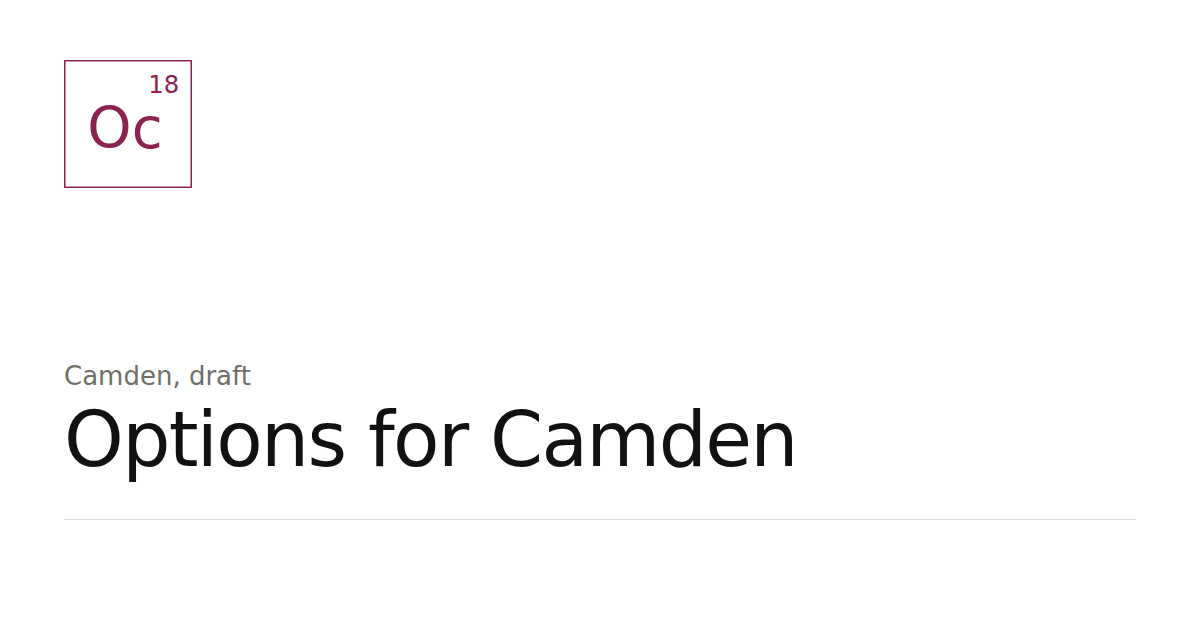
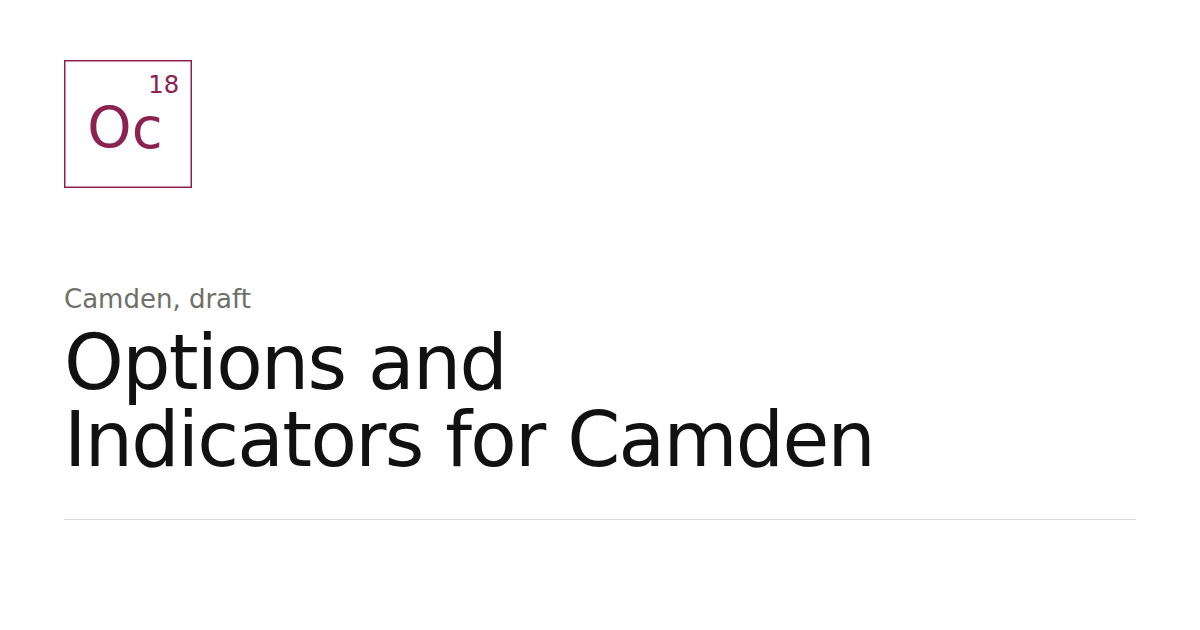
Rename to Options and Indicators for Camden, add the three indicators
Adds an explicit indicators section: three simple, mission-level
measures (closing the nutrition gap, growing resilient local
infrastructure, shock-absorbency) each tied to data already being
captured (Healthy Weight Acceleration Plan, Hubs & Markets Working
Group and Supply Map, Nutrition Cascade Model) rather than new
measurement. Cross-links both ways: each option that moves an
indicator says so, and each indicator names the options most likely
to move it. Cornerstone Indicators is kept as the method behind
getting indicators like these right, not the answer itself.

Claude-Session: https://claude.ai/code/session_01Qav7maXNPuh2bSZKtfst4Z

Changed region(s): [[0.0308, 0.4524, 0.74, 0.754]]

diff --git a/options-for-camden.html b/options-for-camden.html
@@ -3,7 +3,7 @@
 <head>
 <meta charset="UTF-8">
 <meta name="viewport" content="width=device-width, initial-scale=1.0">
-<title>Options for Camden (draft) — Food as Infrastructure</title>
+<title>Options and Indicators for Camden (draft) — Food as Infrastructure</title>
 <style>
   :root{
     --paper:var(--fai-paper);
@@ -100,7 +100,17 @@
   .opt .energy b{color:var(--ink); font-weight:600;}
   .opt .ask{margin-top:8px; font-size:14px; color:var(--ink-faint); line-height:1.5; max-width:68ch;}
   .opt .ask b{color:var(--ink); font-weight:600;}
+  .opt .moves{margin-top:8px; font-size:14px; color:var(--ink-faint); line-height:1.5; max-width:68ch;}
+  .opt .moves b{color:var(--ink); font-weight:600;}
   .opt .more{display:inline-block; margin-top:10px; font-size:14px;}
+
+  .indicator .num{color:var(--accent);}
+  .indicator .opt-head h3{font-size:clamp(20px,2.3vw,24px);}
+  .indicator .tracked{margin-top:14px; padding-top:12px; border-top:1px solid var(--rule-strong); font-size:14px; color:var(--ink-faint); line-height:1.5; max-width:68ch;}
+  .indicator .tracked b{color:var(--ink); font-weight:600;}
+  .indicator .success{margin-top:8px; font-size:14px; color:var(--ink-faint); line-height:1.5; max-width:68ch;}
+  .indicator .success b{color:var(--ink); font-weight:600;}
+  .indicator .lede{margin:10px 0 0; font-size:16px; color:var(--ink-soft); line-height:1.55; max-width:68ch;}
 
   .cta-box{background:var(--paper-2); padding:32px; margin-top:24px;}
   .cta-box h3{font-size:clamp(22px,2.4vw,28px); line-height:1.2; font-weight:500; margin-top:8px; max-width:42ch;}
@@ -148,24 +158,24 @@
   }
 </style>
 <!-- fai:head -->
-<meta name="description" content="A short options paper: nine interventions from the Future Food Dinner and Workshop where a named person or organisation is already showing real energy, distilled from Where’s the Energy?">
+<meta name="description" content="Nine interventions where someone already showed up, distilled from Where’s the Energy?, plus the three simple indicators Camden and DML will use to know the mission is actually working.">
 <link rel="canonical" href="https://food.darkmatterlabs.org/options-for-camden.html">
 <meta name="theme-color" content="#111112">
 <meta property="og:type" content="article">
 <meta property="og:site_name" content="Food as Infrastructure, Dark Matter Labs">
 <meta property="og:locale" content="en_GB">
 <meta property="og:url" content="https://food.darkmatterlabs.org/options-for-camden.html">
-<meta property="og:title" content="Options for Camden">
-<meta property="og:description" content="A short options paper: nine interventions from the Future Food Dinner and Workshop where a named person or organisation is already showing real energy, distilled from Where’s the Energy?">
+<meta property="og:title" content="Options and Indicators for Camden">
+<meta property="og:description" content="Nine interventions where someone already showed up, distilled from Where’s the Energy?, plus the three simple indicators Camden and DML will use to know the mission is actually working.">
 <meta property="og:image" content="https://food.darkmatterlabs.org/assets/fai/social/options-for-camden.png">
 <meta property="og:image:width" content="1200">
 <meta property="og:image:height" content="630">
-<meta property="og:image:alt" content="Options for Camden. Food as Infrastructure, Dark Matter Labs.">
+<meta property="og:image:alt" content="Options and Indicators for Camden. Food as Infrastructure, Dark Matter Labs.">
 <meta name="twitter:card" content="summary_large_image">
-<meta name="twitter:title" content="Options for Camden">
-<meta name="twitter:description" content="A short options paper: nine interventions from the Future Food Dinner and Workshop where a named person or organisation is already showing real energy, distilled from Where’s the Energy?">
+<meta name="twitter:title" content="Options and Indicators for Camden">
+<meta name="twitter:description" content="Nine interventions where someone already showed up, distilled from Where’s the Energy?, plus the three simple indicators Camden and DML will use to know the mission is actually working.">
 <meta name="twitter:image" content="https://food.darkmatterlabs.org/assets/fai/social/options-for-camden.png">
-<meta name="twitter:image:alt" content="Options for Camden. Food as Infrastructure, Dark Matter Labs.">
+<meta name="twitter:image:alt" content="Options and Indicators for Camden. Food as Infrastructure, Dark Matter Labs.">
 <link rel="icon" href="assets/fai/favicon.svg" type="image/svg+xml">
 <link rel="preconnect" href="https://fonts.googleapis.com">
 <link rel="preconnect" href="https://fonts.gstatic.com" crossorigin>
@@ -180,7 +190,7 @@
     <a class="fai-bar__dm" href="https://darkmatterlabs.org/"><img class="fai-bar__lockup" src="assets/brand/dm-logo-v1-white.svg" alt="Dark Matter Labs" width="102" height="20"><img class="fai-bar__stamp" src="assets/brand/dm-stamp-white.svg" alt="Dark Matter Labs" width="20" height="20"></a>
     <span class="fai-bar__sep" aria-hidden="true"></span>
     <a class="fai-bar__mission" href="index.html">Food as Infrastructure</a>
-    <span class="fai-bar__here"><span class="fai-el fai-el--camden fai-el--draft" aria-hidden="true"><b>Oc</b><i>18</i></span><span>Options for Camden</span></span>
+    <span class="fai-bar__here"><span class="fai-el fai-el--camden fai-el--draft" aria-hidden="true"><b>Oc</b><i>18</i></span><span>Options and Indicators for Camden</span></span>
     <a class="fai-bar__xco" href="https://optionality.darkmatterlabs.org/" target="_blank" rel="noopener" title="Dark Matter Labs' Expanding Civilizational Optionality portfolio">xCO portfolio<span aria-hidden="true"> ↗</span></a>
     <div class="fai-bar__links" role="navigation" aria-label="Site"><a href="index.html">Portfolio</a><a href="library.html">Library</a></div>
   </div>
@@ -189,10 +199,11 @@
 
 <nav>
   <div class="navrow">
-    <div class="navbrand">Options for Camden</div>
+    <div class="navbrand">Options and Indicators for Camden</div>
     <div class="navlinks">
       <a href="#why">Why these, not forty</a>
       <a href="#options">The options</a>
+      <a href="#indicators">The indicators</a>
       <a href="#firstmove">First move</a>
       <a href="#tensions">Decide on purpose</a>
       <a href="#next">What's next</a>
@@ -203,7 +214,7 @@
 <div class="status-strip">
   <div class="wrap">
     <div class="status-note">
-      <p><strong>Draft, evolving.</strong> This is the short options paper Camden asked for: a small number of high-leverage interventions Camden could explore in partnership with key stakeholders, selected from the full catalogue on <a href="wheres-the-energy.html">Where's the Energy?</a> As energy moves, or new interventions surface, this list changes with it — it is not a final decision, and nothing here is funded or agreed by being listed.</p>
+      <p><strong>Draft, evolving.</strong> This is the short options paper Camden asked for: a small number of high-leverage interventions Camden could explore in partnership with key stakeholders, selected from the full catalogue on <a href="wheres-the-energy.html">Where's the Energy?</a> It now also carries the three simple indicators Camden asked for separately, tracked through data already being captured, for knowing whether any of it is working. As energy moves, or new interventions surface, this list changes with it — it is not a final decision, and nothing here is funded or agreed by being listed.</p>
       <span class="status-date">Working draft, October 2026</span>
     </div>
   </div>
@@ -213,9 +224,10 @@
   <div class="wrap">
     <div class="eyebrow">A short list, not the whole portfolio</div>
     <h1>Nine places where someone already showed up.</h1>
-    <p class="sub">Camden's Food Partnership raised more than forty ideas across the Future Food Dinner and Workshop. Most are real and worth holding. Only a handful already have a named person or organisation ready to move. This page is those — picked for momentum, not importance, so Camden can start a real conversation with a real partner rather than another round of ideas.</p>
+    <p class="sub">Camden's Food Partnership raised more than forty ideas across the Future Food Dinner and Workshop. Most are real and worth holding. Only a handful already have a named person or organisation ready to move. This page is those — picked for momentum, not importance, so Camden can start a real conversation with a real partner rather than another round of ideas. It ends with the three indicators that tell Camden and DML whether any of it is actually moving the mission.</p>
     <div class="ctarow">
       <a class="btn btn-primary" href="#options">See the nine options</a>
+      <a class="btn btn-primary" href="#indicators">See the three indicators</a>
       <a class="btn btn-ghost" href="wheres-the-energy.html">Open the full catalogue ↗</a>
     </div>
   </div>
@@ -246,29 +258,31 @@
     </div>
     <div class="optlist">
 
-      <div class="opt">
+      <div class="opt" id="opt-01">
         <div class="num">01</div>
         <div>
           <div class="opt-head"><h3>A Local Food Resilience Committee</h3><span class="track-tag civic">Civic muscle</span></div>
           <p class="mech">Add food formally to Camden's emergency response, alongside the police, hospital, ambulance and fire services already covered by the Borough Resilience Forum — before national policy requires it.</p>
           <div class="energy"><b>Energy already visible:</b> Tanya brought the proposal and put her name to it directly.</div>
           <div class="ask"><b>What's needed next:</b> who convenes it locally, and keeps the risk register alive after the first meeting.</div>
+          <div class="moves"><b>Moves:</b> <a href="#ind-III">indicator III, shock-absorbency</a> — this option exists for exactly this number.</div>
           <a class="more" href="wheres-the-energy.html#resilience">See the full case →</a>
         </div>
       </div>
 
-      <div class="opt">
+      <div class="opt" id="opt-02">
         <div class="num">02</div>
         <div>
           <div class="opt-head"><h3>A procurement charter</h3><span class="track-tag demand">Demand</span></div>
           <p class="mech">A joint public/private Camden charter set deliberately beyond existing certifications — Food for Life Served Here's gold standard only requires around 15% organic.</p>
           <div class="energy"><b>Energy already visible:</b> Rosemary named it directly on the day — "if anyone wants to talk about a charter, let's do it."</div>
           <div class="ask"><b>What's needed next:</b> who else wants in, and who owns the supplier relationships day to day.</div>
+          <div class="moves"><b>Moves:</b> <a href="#ind-II">indicator II, resilient local infrastructure</a> — a charter is a demand-side lever on where the money goes.</div>
           <a class="more" href="wheres-the-energy.html#f02">See the full case →</a>
         </div>
       </div>
 
-      <div class="opt">
+      <div class="opt" id="opt-03">
         <div class="num">03</div>
         <div>
           <div class="opt-head"><h3>Social value live-matchmaking</h3><span class="track-tag hub">Hub</span></div>
@@ -279,68 +293,74 @@
         </div>
       </div>
 
-      <div class="opt">
+      <div class="opt" id="opt-04">
         <div class="num">04</div>
         <div>
           <div class="opt-head"><h3>Camden food hub(s)</h3><span class="track-tag hub">Hub</span></div>
           <p class="mech">The single biggest tangible idea from the workshop — a hub-and-spoke model anchored at Regis Road, with composting and anaerobic digestion planned alongside it.</p>
           <div class="energy"><b>Energy already visible:</b> Damien Conrad (Felix Project) is already directing the London Hubs &amp; Markets Working Group carrying this forward.</div>
           <div class="ask"><b>What's needed next:</b> who from Camden sits alongside him on it, day to day.</div>
+          <div class="moves"><b>Moves:</b> <a href="#ind-II">indicator II</a> and <a href="#ind-III">indicator III</a> — a hub is both an aggregation point and a buffer against shocks.</div>
           <a class="more" href="hubs-and-markets-working-group.html">See the working group →</a>
         </div>
       </div>
 
-      <div class="opt">
+      <div class="opt" id="opt-05">
         <div class="num">05</div>
         <div>
           <div class="opt-head"><h3>A collective buying engine</h3><span class="track-tag hub">Hub</span></div>
           <p class="mech">Scale an existing "one conversation instead of a hundred" relationship model into a repeatable, institutional capability rather than one person's own contacts.</p>
           <div class="energy"><b>Energy already visible:</b> Carl's own business needs this to exist within six months — about as real as energy gets in the room.</div>
           <div class="ask"><b>What's needed next:</b> who helps that urgency become an institutional capability, not just Carl's own relationships.</div>
+          <div class="moves"><b>Moves:</b> <a href="#ind-II">indicator II, resilient local infrastructure</a> — collective buying power is exactly the share this indicator tracks.</div>
           <a class="more" href="wheres-the-energy.html#f02">See the full case →</a>
         </div>
       </div>
 
-      <div class="opt">
+      <div class="opt" id="opt-06">
         <div class="num">06</div>
         <div>
           <div class="opt-head"><h3>A mesh system for aggregated demand</h3><span class="track-tag supply">Supply</span></div>
           <p class="mech">Further explore WinVal's mesh architecture — the Liquid Farm Capacitor model already referenced across this portfolio — to match farm supply to demand aggregated across Camden and other aligned London boroughs, putting real purchasing power in councils' hands rather than leaving it scattered borough by borough.</p>
           <div class="energy"><b>Energy already visible:</b> the architecture already sits behind the farm-to-farm coverage model referenced in the wider portfolio; the opening is turning that reference into an actual test.</div>
           <div class="ask"><b>What's needed next:</b> who tests it first — Camden alone, or paired with one or two boroughs already at the Hubs &amp; Markets Working Group table, to make the aggregated-demand thesis real rather than theoretical.</div>
+          <div class="moves"><b>Moves:</b> <a href="#ind-II">indicator II</a> and <a href="#ind-III">indicator III</a> — aggregated demand is a direct route to both a bigger local-infrastructure share and a more diversified, shock-resistant supply.</div>
           <a class="more" href="hubs-and-markets-working-group.html">See the cross-borough working group →</a>
         </div>
       </div>
 
-      <div class="opt">
+      <div class="opt" id="opt-07">
         <div class="num">07</div>
         <div>
           <div class="opt-head"><h3>A Farmacy pilot</h3><span class="track-tag hub">Hub</span></div>
           <p class="mech">Pharmacies reframed as neighbourhood performance-and-nutrition nodes — fresh food, dietary advice and community links, framed around aspiration rather than illness.</p>
           <div class="energy"><b>Energy already visible:</b> raised in the new-economics session; a business owner at the table (Carl) reacted to it live as an opportunity for his own pivot.</div>
           <div class="ask"><b>What's needed next:</b> who scopes an actual pilot site and partner.</div>
+          <div class="moves"><b>Moves:</b> <a href="#ind-I">indicator I, the nutrition gap</a> — a direct, neighbourhood-level nutrition and health touchpoint.</div>
           <a class="more" href="wheres-the-energy.html#f01">See the full case →</a>
         </div>
       </div>
 
-      <div class="opt">
+      <div class="opt" id="opt-08">
         <div class="num">08</div>
         <div>
           <div class="opt-head"><h3>Deeper reach into non-traditional food actors</h3><span class="track-tag civic">Civic muscle</span></div>
           <p class="mech">Corner shops, convenience stores and small independent retailers sit outside most food-partnership conversations, despite being where many residents actually buy food.</p>
           <div class="energy"><b>Energy already visible:</b> Farah is already doing some of this engagement.</div>
           <div class="ask"><b>What's needed next:</b> what would help her do more of it.</div>
+          <div class="moves"><b>Moves:</b> <a href="#ind-I">indicator I, the nutrition gap</a> — this is where residents in the gap actually shop.</div>
           <a class="more" href="wheres-the-energy.html#f03">See the full case →</a>
         </div>
       </div>
 
-      <div class="opt">
+      <div class="opt" id="opt-09">
         <div class="num">09</div>
         <div>
           <div class="opt-head"><h3>A co-op toolkit and minimum standards</h3><span class="track-tag hub">Hub</span></div>
           <p class="mech">A recognisable, minimum-standards toolkit so anyone can start a food co-op, and residents can recognise one the way they'd recognise a supermarket or the Underground.</p>
           <div class="energy"><b>Energy already visible:</b> strong consensus at the table — no single name attached yet, the one option here still waiting on a first owner.</div>
           <div class="ask"><b>What's needed next:</b> who's willing to put their name on this first.</div>
+          <div class="moves"><b>Moves:</b> <a href="#ind-II">indicator II, resilient local infrastructure</a> — more co-ops is more of the food economy sitting outside the mainstream supply chain.</div>
           <a class="more" href="wheres-the-energy.html#f03">See the full case →</a>
         </div>
       </div>
@@ -358,11 +378,55 @@
     <div class="cta-box">
       <div class="eyebrow">Cabinet Office consultation window closed 5 October 2026</div>
       <h3>Food still isn't formally part of Camden's emergency response. That window closing doesn't close the opportunity.</h3>
-      <p>Tim Lang's National Preparedness Commission review recommended every local authority add a food resilience committee to its emergency planning; the Cabinet Office's call for views on making that statutory has now closed. Whichever way that lands nationally, a borough that has already set one up has done the work before being told to — and option 01 above already has a named person ready to carry it.</p>
+      <p>Tim Lang's National Preparedness Commission review recommended every local authority add a food resilience committee to its emergency planning; the Cabinet Office's call for views on making that statutory has now closed. Whichever way that lands nationally, a borough that has already set one up has done the work before being told to — and <a href="#opt-01">option 01</a> above already has a named person ready to carry it.</p>
       <div class="ctarow">
         <a class="btn btn-primary" href="https://nationalpreparednesscommission.uk/wp-content/uploads/2025/02/NPC-Just-in-Case-Main-Report_PDF-Download.pdf" target="_blank" rel="noopener">Read Tim Lang's report ↗</a>
       </div>
     </div>
+  </div>
+</section>
+
+<section id="indicators">
+  <div class="wrap">
+    <div class="sec-head">
+      <div class="eyebrow">Camden asked for this separately — three numbers, not a framework</div>
+      <h2>How Camden and DML will know this is working</h2>
+      <p>Not nine indicators for nine options, and not a measurement framework alongside <a href="https://cornerstoneindicators.com/" target="_blank" rel="noopener">Cornerstone Indicators<span aria-hidden="true"> ↗</span></a>'s own methodology. Three simple numbers for the mission itself — each one readable off data Camden or DML is already capturing, and each one, below, linked back to the specific options most likely to move it.</p>
+    </div>
+    <div class="optlist">
+
+      <div class="opt indicator" id="ind-I">
+        <div class="num">I</div>
+        <div>
+          <div class="opt-head"><h3>Is the nutrition gap closing, not just the average?</h3></div>
+          <p class="lede">The gap between Camden's most and least deprived wards on a single measure Camden already collects &mdash; child healthy weight, via the National Child Measurement Programme inside the Healthy Weight Acceleration Plan. Success is the gap narrowing, not the borough-wide average moving while the gap stays the same.</p>
+          <div class="tracked"><b>Tracked through:</b> Camden's own Healthy Weight Acceleration Plan data, already collected, no new survey needed.</div>
+          <div class="success"><b>Moved most by:</b> <a href="#opt-07">07, the Farmacy pilot</a> and <a href="#opt-08">08, reach into non-traditional food actors</a>.</div>
+        </div>
+      </div>
+
+      <div class="opt indicator" id="ind-II">
+        <div class="num">II</div>
+        <div>
+          <div class="opt-head"><h3>Is more of Camden's food moving through resilient, local infrastructure?</h3></div>
+          <p class="lede">The share of food moving through Camden's own hubs, public kitchens and short supply chains &mdash; already tracked by the Hubs &amp; Markets Working Group and the Supply Map &mdash; measured against the mainstream, global-supply-chain baseline the Supply Map maps out. Success is that share growing.</p>
+          <div class="tracked"><b>Tracked through:</b> hub tonnage, Felix Project volumes, Better Food Traders throughput and council catering contracts, all already monitored.</div>
+          <div class="success"><b>Moved most by:</b> <a href="#opt-02">02, the procurement charter</a>, <a href="#opt-04">04, the food hub(s)</a>, <a href="#opt-05">05, collective buying</a>, <a href="#opt-06">06, the mesh system</a> and <a href="#opt-09">09, the co-op toolkit</a>.</div>
+        </div>
+      </div>
+
+      <div class="opt indicator" id="ind-III">
+        <div class="num">III</div>
+        <div>
+          <div class="opt-head"><h3>Is Camden more shock-absorbent than it was last year?</h3></div>
+          <p class="lede">How far a modelled supply shock travels into Camden before local capacity &mdash; hubs, reserves, producer relationships &mdash; absorbs it, using the Nutrition Cascade Model already built for exactly this. Success is shocks reaching fewer households, or taking longer to bite.</p>
+          <div class="tracked"><b>Tracked through:</b> the <a href="nutrition-cascade-model.html">Nutrition Cascade Model</a>, re-run periodically against the same shock scenario.</div>
+          <div class="success"><b>Moved most by:</b> <a href="#opt-01">01, the Local Food Resilience Committee</a> &mdash; built for precisely this number &mdash; plus <a href="#opt-04">04, the food hub(s)</a> and <a href="#opt-06">06, the mesh system</a>.</div>
+        </div>
+      </div>
+
+    </div>
+    <div class="note"><b>On Cornerstone Indicators:</b> DML's wider <a href="https://cornerstoneindicators.com/" target="_blank" rel="noopener">Cornerstone Indicators<span aria-hidden="true"> ↗</span></a> work is the method behind getting indicators like these right &mdash; generated from inside the community actually doing the work, not handed down from outside. These three are that method's output for Camden specifically, not a separate ask.</div>
   </div>
 </section>
 
@@ -393,7 +457,7 @@
     <div class="sec-head">
       <div class="eyebrow">From options to a prioritised portfolio</div>
       <h2>What happens next</h2>
-      <p>This page is deliberately a shortlist, not a plan. The next job — Camden's, not DML's alone — is testing each option's feasibility, deciding which ones Camden or a partner can run locally versus which need the wider alliance, and working out what resources and partners each one actually needs. That filtering is phase two's job; this page is what phase two filters.</p>
+      <p>This page is deliberately a shortlist, not a plan. The next job — Camden's, not DML's alone — is testing each option's feasibility, deciding which ones Camden or a partner can run locally versus which need the wider alliance, and working out what resources and partners each one actually needs. The three indicators above are how both sides will know, once that work starts, whether it's actually landing. That filtering is phase two's job; this page is what phase two filters.</p>
     </div>
     <div class="toolgrid">
       <a class="tool" href="wheres-the-energy.html">
@@ -411,6 +475,11 @@
         <h4>London Hubs &amp; Markets</h4>
         <p>Where the hub option (04) gets tested against real boroughs, leases and funding gaps.</p>
       </a>
+      <a class="tool" href="https://cornerstoneindicators.com/" target="_blank" rel="noopener">
+        <div class="tag">Method</div>
+        <h4>Cornerstone Indicators ↗</h4>
+        <p>The open-source methodology behind the three indicators above, for Camden to own and adapt directly.</p>
+      </a>
     </div>
   </div>
 </section>
@@ -418,14 +487,15 @@
 <footer>
   <div class="wrap">
     <div>
-      <div class="foot-title">Options for Camden</div>
+      <div class="foot-title">Options and Indicators for Camden</div>
       <div class="foot-links">
         <a href="index.html">Food as Infrastructure</a><br>
         <a href="wheres-the-energy.html">Where's the Energy?</a><br>
+        <a href="https://cornerstoneindicators.com/" target="_blank" rel="noopener">Cornerstone Indicators ↗</a><br>
         <a href="library.html">Library</a>
       </div>
     </div>
-    <div class="credit">Source: the Future Food Dinner and Camden Food Futures Workshop, synthesised in <a href="wheres-the-energy.html">Where's the Energy?</a>, filtered down to the options with a named person or organisation already showing energy for them. A working draft from Dark Matter Labs' Food as Infrastructure portfolio, built to answer Camden's own request for a short options paper. Parts of this page were drafted with AI assistance (Claude). Licensed CC BY-SA 4.0 — see the <a href="index.html">homepage</a> for full credit and lineage.</div>
+    <div class="credit">Source: the Future Food Dinner and Camden Food Futures Workshop, synthesised in <a href="wheres-the-energy.html">Where's the Energy?</a>, filtered down to the options with a named person or organisation already showing energy for them. The three indicators were built directly in response to Camden's own request for a small, practical way to track the mission over time. A working draft from Dark Matter Labs' Food as Infrastructure portfolio. Parts of this page were drafted with AI assistance (Claude). Licensed CC BY-SA 4.0 — see the <a href="index.html">homepage</a> for full credit and lineage.</div>
   </div>
 </footer>
 

diff --git a/library.html b/library.html
@@ -234,7 +234,7 @@
         <a class="tile tile--camden" href="wheres-the-energy.html" aria-label="Where’s the Energy?"><i>7</i><b>En</b><span>Where’s the Energy?</span></a>
         <a class="tile tile--camden tile--draft" href="camden-health-and-wellbeing.html" aria-label="Draft. Healthy Weight Acceleration Plan"><i>8</i><b>Hw</b><span>Healthy Weight</span></a>
         <a class="tile tile--camden tile--draft" href="kilburn-high-street.html" aria-label="Draft. Kilburn High Street"><i>16</i><b>Kb</b><span>Kilburn High Street</span></a>
-        <a class="tile tile--camden tile--draft" href="options-for-camden.html" aria-label="Draft. Options for Camden"><i>18</i><b>Oc</b><span>Options for Camden</span></a>
+        <a class="tile tile--camden tile--draft" href="options-for-camden.html" aria-label="Draft. Options and Indicators for Camden"><i>18</i><b>Oc</b><span>Options and Indicators for Camden</span></a>
         <a class="tile tile--camden tile--draft" href="camden-dml-governance.html" aria-label="Draft. Governing for Transformation"><i>19</i><b>Gv</b><span>Camden / DML Governance</span></a>
         <a class="tile tile--camden tile--draft" href="sweden-baltic-lessons-for-camden.html" aria-label="Draft. What Transfers to Camden"><i>20</i><b>Sb</b><span>What Transfers to Camden</span></a>
       </div>
@@ -456,8 +456,8 @@
         <li class="entry">
           <span class="fai-el fai-el--camden fai-el--draft" style="--el-size:44px" aria-hidden="true"><b>Oc</b><i>18</i></span>
           <div class="entry__body">
-            <h4><a href="options-for-camden.html">Options for Camden</a><span class="entry__draft">Draft</span></h4>
-            <p>A short options paper: nine interventions from the Future Food Dinner and Workshop where a named person or organisation is already showing real energy, distilled from Where’s the Energy?</p>
+            <h4><a href="options-for-camden.html">Options and Indicators for Camden</a><span class="entry__draft">Draft</span></h4>
+            <p>Nine interventions where someone already showed up, distilled from Where’s the Energy?, plus the three simple indicators Camden and DML will use to know the mission is actually working.</p>
           </div>
           <div class="entry__links"></div>
         </li>
